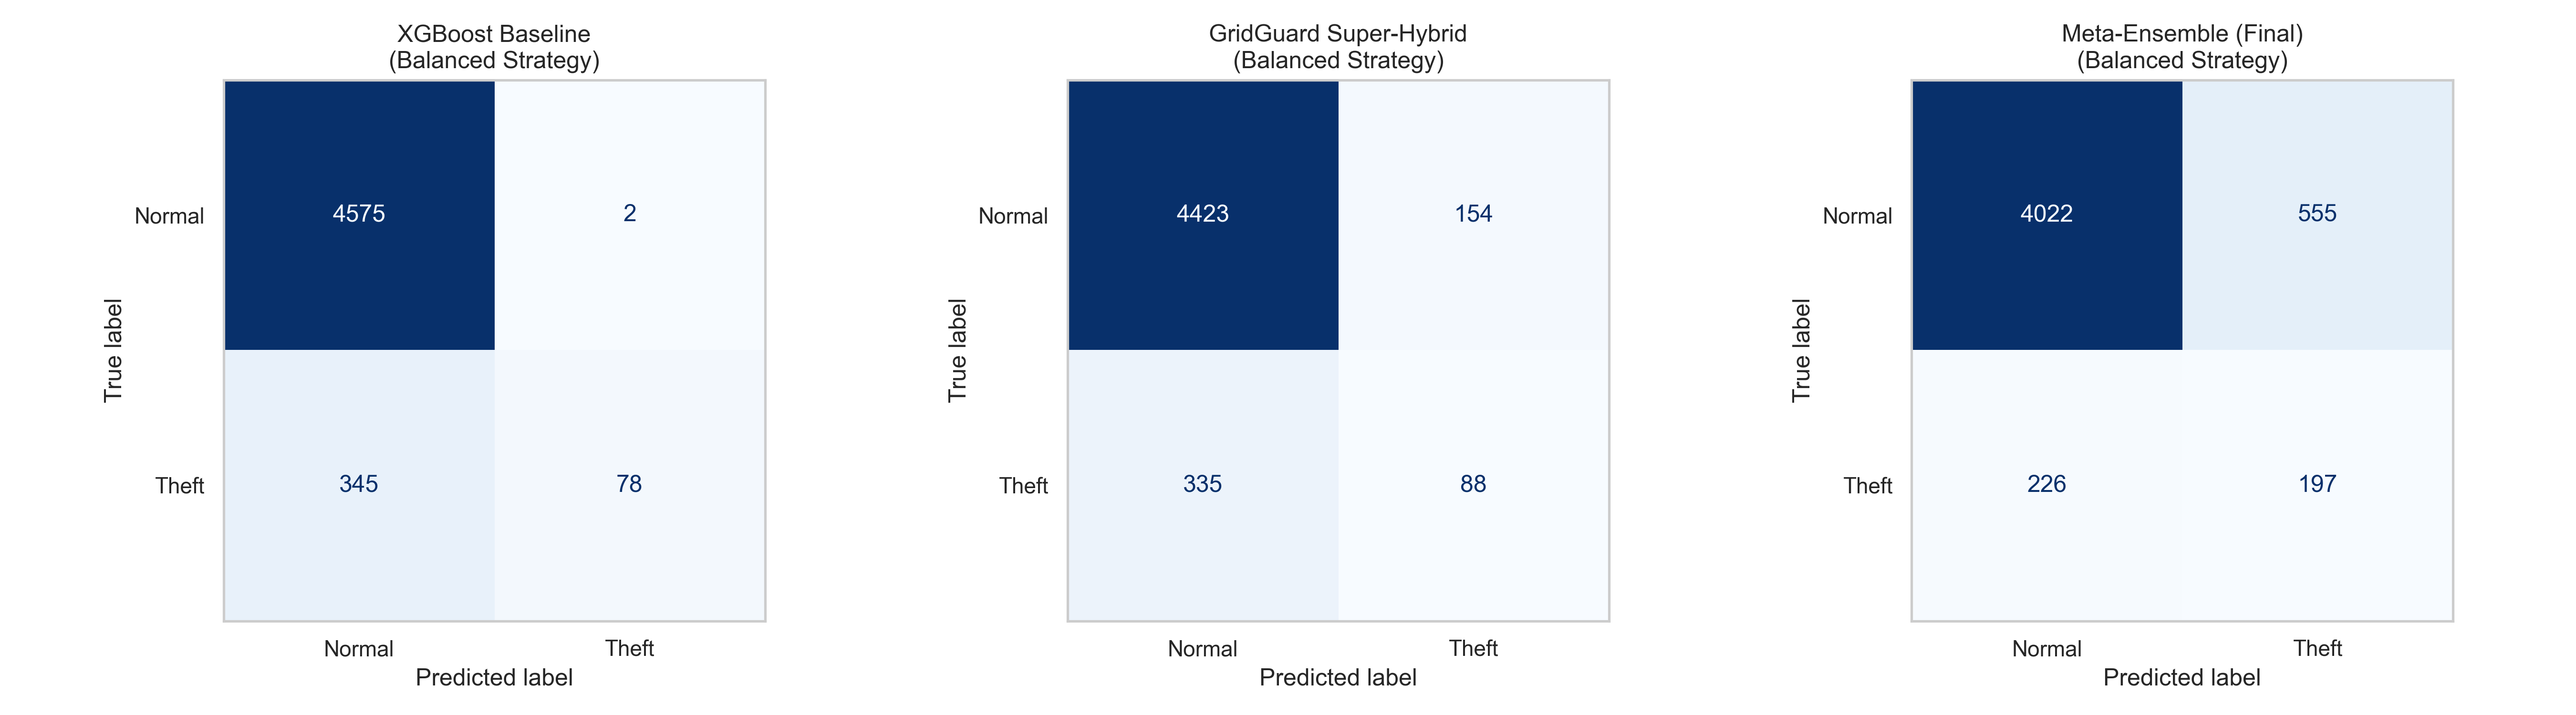
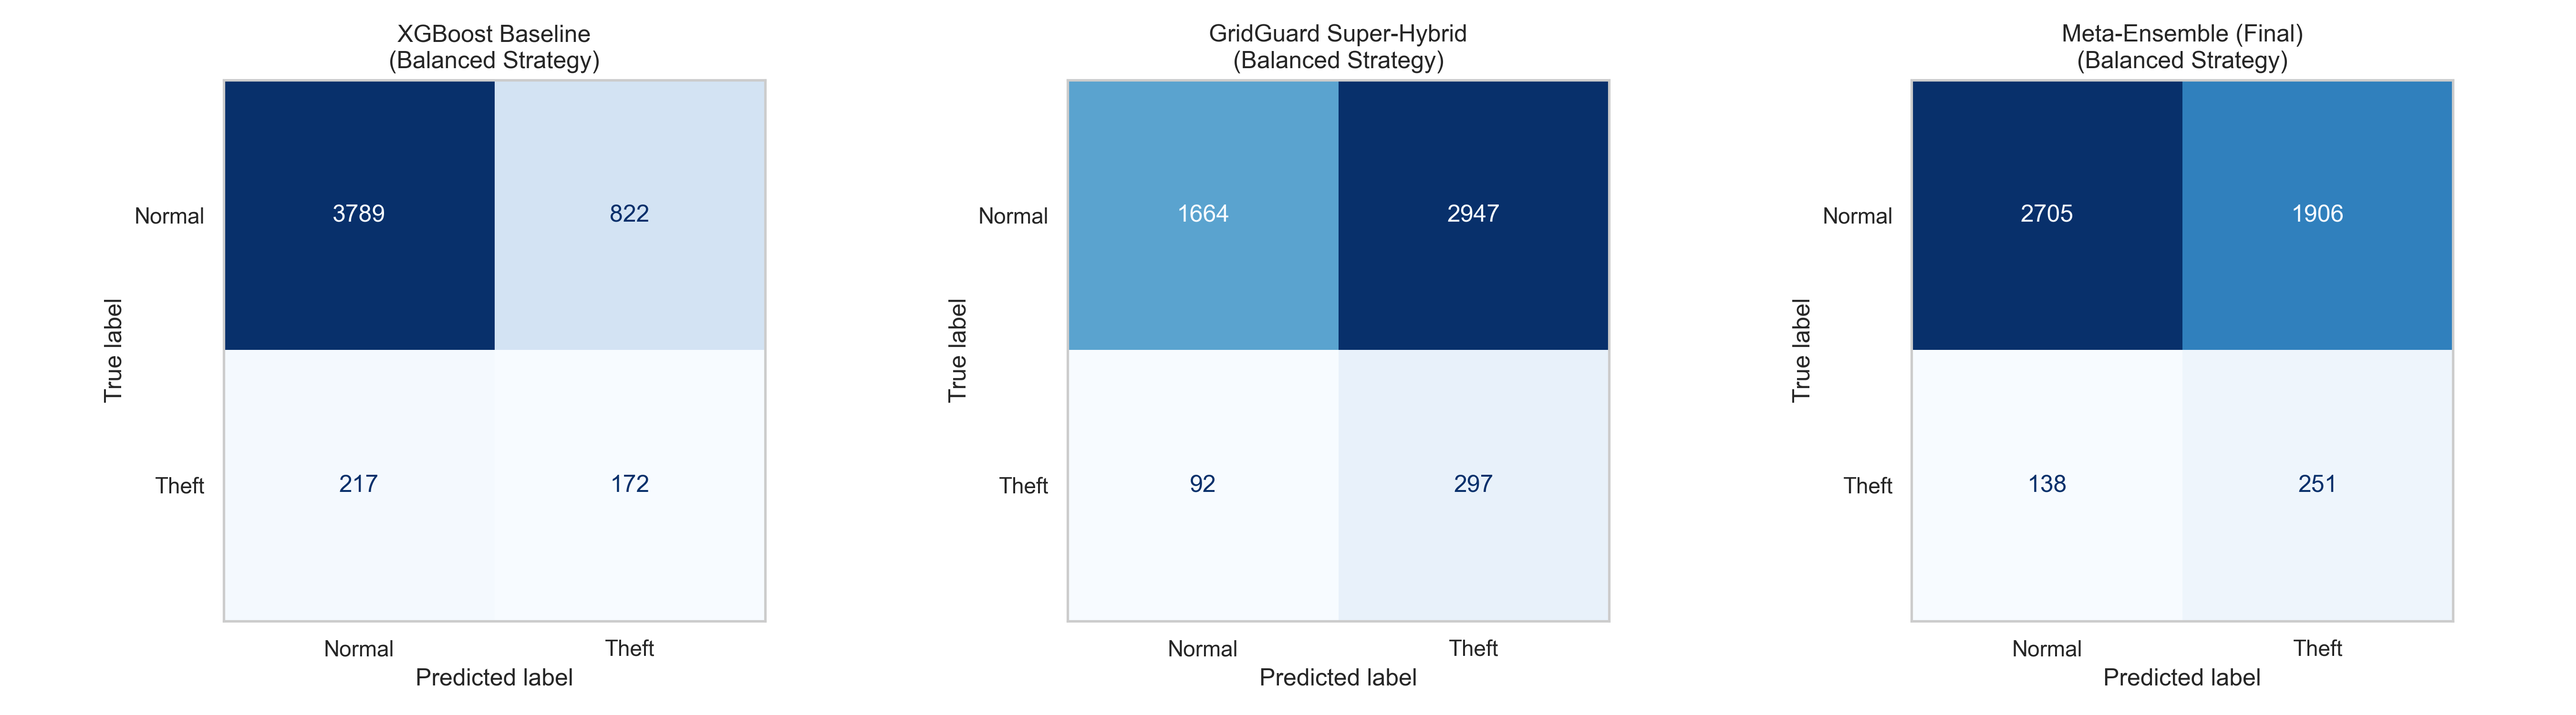
Final Thesis Benchmarking: Comparative Study Results and Meta-Ensemble Optimization

diff --git a/ml_engine/src/comparative_study.py b/ml_engine/src/comparative_study.py
@@ -31,9 +31,9 @@ def run_comparative_study():
     
     # 1. Load Data
     print("Loading Evaluation Dataset...")
-    DATA_PATH = "../../data/data set.csv"
+    DATA_PATH = "../../data/data_set_cleaned.csv"
     if not os.path.exists(DATA_PATH):
-        DATA_PATH = "../data/data set.csv"
+        DATA_PATH = "../data/data_set_cleaned.csv"
         
     dataset = ElectricityDataset(DATA_PATH, window_size=30, transform=True)
     
@@ -57,7 +57,9 @@ def run_comparative_study():
     # --- 1. Load XGBoost Vigorous ---
     print(">> Evaluating XGBoost Baseline...")
     xgb_model = XGBoostBaseline()
-    xgb_path = "best_xgb_vigorous.pkl"
+    xgb_path = "best_xgb_augmented.pkl"
+    if not os.path.exists(xgb_path):
+        xgb_path = "best_xgb_vigorous.pkl"
     if not os.path.exists(xgb_path):
         xgb_path = "best_xgb.pkl"
         
